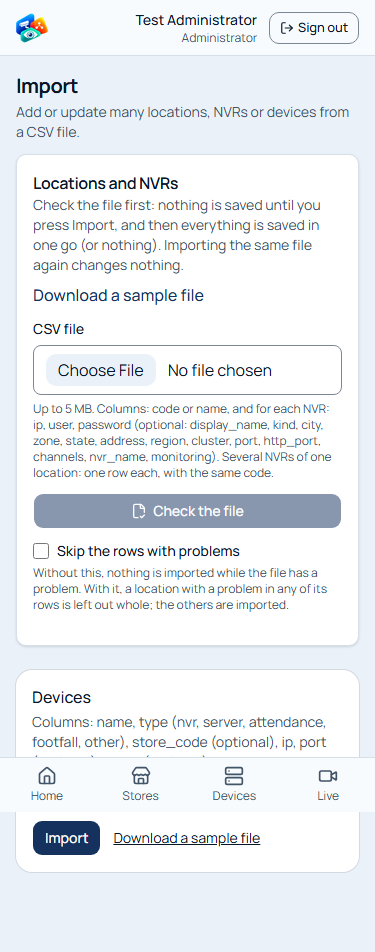
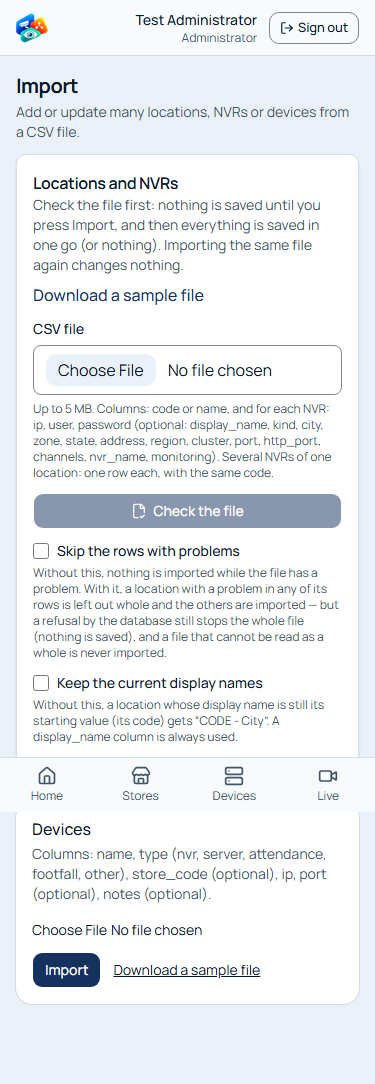
docs: P2-5c-2 review round 1 in the import guide, access and locations models, tracker, Evidence log and screenshots

diff --git a/docs/drishti/admin-guide-import.md b/docs/drishti/admin-guide-import.md
@@ -2,19 +2,25 @@
 
 Screen: **Admin → Import → Locations and NVRs** (`/admin/import`). Who: an administrator (or super administrator) holding
 `admin.inventory` for the whole organisation. Built in P2-5c-2 (`lib/import/locations-csv.ts`, `locations-plan.ts`, `locations-import.ts`,
-migration `20261021000028`). The examples below use made-up data only (TEST-NET addresses, invented passwords).
+migrations `20261021000028` and, for review round 1, `20261021000031`). The examples below use made-up data only (TEST-NET addresses,
+invented passwords).
 
 ## 1. How it works: check, then import
 
 1. **Choose the file** (CSV, up to 5 MB, up to 5,000 rows).
 2. **Check the file.** Nothing is saved. The screen shows:
-   - counts: new / changing / unchanged locations and NVRs, passwords that would be saved, new cameras, new regions and clusters;
+   - counts: new / changing / unchanged locations and NVRs, passwords given, new cameras (and cameras linked back to their channel),
+     new regions and clusters;
    - **Problems**, one line each with the **line number**, the **column** and a plain **reason** (for example: line 7, column `ip`,
-     "“192.0.2.300” is not a valid IP address.");
+     "Not a valid IP address."). A message never repeats what is in a cell (review B-I2: whatever lands in a column, a password is
+     never echoed);
    - **Worth a look**: things that are saved but may be a mistake (the same NVR address at two locations, an unknown column, a
      location already in another cluster);
-   - what happens to each location and each of its NVRs ("New", "Changes: address, password", "No change"). Passwords are never shown —
-     only **"Password: set"** or **"Password: unchanged"**;
+   - what happens to each location and each of its NVRs ("New", "Changes: address, web port", "No change"); a display name that
+     changes shows **old → new**. Passwords are never shown and never compared with the saved one: **"Password: will be set"** when the
+     row gives one (it is written only if it differs from the saved one, so importing the same file again writes nothing) and
+     **"Password: kept"** when the cell is empty (review B-I3: the preview cannot be used to guess a saved password);
+   - a new NVR says **"Monitoring: switched on"** (it is checked once the monitoring service runs) unless the file says `no`;
    - **Not in the file**: locations of the organisation that the file does not list, NVRs of listed locations that the file does not
      list, cameras on channels above the number of cameras the file gives. They are only listed.
 3. **Import.** The same plan is worked out again and must be exactly the one you checked (otherwise: "Something changed since you
@@ -26,6 +32,29 @@ migration `20261021000028`). The examples below use made-up data only (TEST-NET 
 - By default a file with any problem is **not imported at all**. Fix the rows and check again.
 - With **"Skip the rows with problems"** ticked, a location with a problem in **any** of its rows is left out **whole** (never half of
   its NVRs); the other locations are imported (still in one transaction).
+- "Skip" covers problems found while checking. **A refusal by the database** while saving (for example a code taken in the meantime)
+  still stops the whole file: nothing is saved and the line is named.
+- **A file that cannot be read as a whole** is never imported, whatever is ticked: a quote (`"`) that is never closed (nothing after it
+  can be read), or a file that is not UTF-8 text (save it as "CSV UTF-8"; otherwise a password with a character such as `é` or `£`
+  would be saved wrong).
+
+### Keep the current display names
+
+Tick **"Keep the current display names"** to keep every existing location's display name as it is. Without it, a location whose
+display name is still its starting value (its code, as the old import left it) gets **"CODE - City"** (owner ruling). A `display_name`
+column is always used.
+
+### How a row is read (review B-I1)
+
+A row is read **whole or not at all**:
+- it must have exactly as many cells as the first line ("This row has 18 cells; the first line has 17…"): a comma inside a value that
+  is not in quotes would otherwise shift every column after it;
+- a value with a comma goes in quotes (`"Shop 1, Station Rd"`), and a quote inside a quoted value is written twice (`""`); a quote in
+  the middle of an unquoted value is a problem of that row;
+- a value may not contain a line break;
+- a text value (display name, city, zone, state, address, NVR name) may not start with `=`, `+`, `-` or `@` (a spreadsheet would read
+  it as a formula). Passwords and user names may.
+Such a row is never merged with the next one and never partly imported.
 
 ### Archive, never delete — and only when you confirm
 
@@ -42,7 +71,7 @@ The first line names the columns (any order, any case; spaces and dashes count a
 
 | Column | Needed | Meaning |
 |---|---|---|
-| `code` | `code` or `name` | The location code (letters, numbers, dashes, up to 50, e.g. `JCL`). Stable: the identity of the location. |
+| `code` | `code` or `name` | The location code (letters, numbers, dashes, up to 50, e.g. `JCL`). Stable: the identity of the location. The code of an **archived** location is refused: restore that location first (no second location with the same code). |
 | `name` | (legacy) | The legacy store file's name column. Used as the code (upper case) when there is no `code` column. |
 | `display_name` | no | The name people see. A new location without one gets **"CODE - City"** (owner ruling). An existing location keeps a name a person edited; one still at its starting value ("CODE" or "CODE - City") follows the ruling. |
 | `kind` | no | `store`, `head office` / `head_office`, `DC` / `distribution centre`, `warehouse`, `other`. New locations default to store. |
@@ -50,8 +79,8 @@ The first line names the columns (any order, any case; spaces and dashes count a
 | `cluster` | no | Cluster code. A **new** location is put in it. An existing location **without** a cluster joins it (a move: the access of people with grants on that cluster or its region changes at once; audited). An existing location in **another** cluster is **not moved** (warning): move it on its page, which shows the effect on access first. A missing cluster is created with its code as its name. |
 | `region` | no, and only with `cluster` | Region code of the cluster (a location joins a region through its cluster). A missing region is created. An existing cluster in another region is not moved (warning). One cluster may not have two regions in one file. |
 | `ip` | for an NVR | The NVR's IP address. A row **without** `ip` (and without the other NVR columns) is a location **without an NVR** (a head office). |
-| `port` | no | The NVR's video (RTSP) port; default 554. |
-| `http_port` | no | The NVR's web (HTTP) port; default 80. |
+| `port` | no | The NVR's video (RTSP) port. Empty: an existing NVR keeps its saved port; a new one gets 554. |
+| `http_port` | no | The NVR's web (HTTP) port. Empty: an existing NVR keeps its saved port and is found by its address alone (when two NVRs of the location share the address, give the port); a new one gets 80. |
 | `user` | with `ip` | The NVR user name. |
 | `password` | for a new NVR | Written to the vault only (write-only). Empty keeps the saved one — **except** when the row changes the NVR's address or web port: then the password must be given again (review I-4: a saved password is only used for the address it was saved for). |
 | `channels` | no | The number of cameras of the NVR (0–999). Cameras are made for channels 1..N that never had a camera on this NVR ("Camera N"; real names come from "Find cameras"). Empty keeps the saved number. |
@@ -71,10 +100,12 @@ per location), never a second NVR made.
 ## 3. Identity rules (why importing the same file again changes nothing)
 
 - A **location** is matched by its **code** within the organisation (another organisation's locations are never seen or touched).
-- An **NVR** is matched by **location + address + web port**; for a location with one row, by the legacy rule above.
-- A **camera** is matched by **NVR + channel**. A channel that ever had a camera on that NVR (archived or moved since) gets no new one.
-- A password equal to the saved one is "unchanged" (compared inside the database; nothing is re-written). Unchanged NVRs are not even
-  saved again (no audit noise).
+- An **NVR** is matched by **location + address + web port** (an empty web port cell: by the address alone); for a location with one
+  row, by the legacy rule above.
+- A **camera** is matched by **NVR + channel**. A channel that ever had a camera on that NVR (archived or moved since) gets no new one;
+  an unlinked camera that belongs on a channel is linked back to it ("cameras linked again").
+- A password given in the file is written only when it differs from the saved one (compared inside the database during the import,
+  never in the preview). Unchanged NVRs are not saved again (no audit noise).
 
 So the second import of the same file shows every location "No change" and saves nothing.
 
@@ -104,11 +135,13 @@ SMP3,Gaya,BR,192.0.2.20,554,80,viewer,change-me-4,8
 
 `npx tsx scripts/import-estate-local.ts "<path to the CSV>"` prints what the import would do — **counts only**, never a cell value
 (problems as counts per column). Add `--apply` to save it (the same single transaction as the screen; `--skip-bad-rows` as the tick
-box). It refuses to run against anything but the local stack on port 55321, and it never contacts an NVR.
+box, `--keep-names` as "Keep the current display names"). It refuses to run against anything but the local stack on port 55321, and
+it never contacts an NVR.
 
 ## 6. After an import
 
 - Run **Find cameras for all locations** (`/admin/locations/discover`) to replace the "Camera N" placeholders with the NVRs' own
-  channel names; anything it cannot place goes to the reconciliation list (`/admin/reconciliation`).
+  channel names; anything it cannot place goes to the reconciliation list (`/admin/reconciliation`). One search runs at a time per
+  organisation; **Stop the search** asks no further NVR (the ones being asked finish; the rest are listed as skipped).
 - Planner statistics are refreshed automatically after a bulk import.
 - Rename the created regions and clusters (they carry their code as their name) on **Regions and clusters**.

diff --git a/docs/drishti/DELIVERY-STATUS.md b/docs/drishti/DELIVERY-STATUS.md
@@ -318,6 +318,7 @@ Append-only. Add one row per merged work package or per verification run; never 
 | 2026-10-22 | AL-1, AL-2, AL-3, AL-5, CC-2 (statuses unchanged, notes) | P2-5c-1 review fix round 1 (`.superpowers/sdd/drishti/p2-5c-1-review.md`: 7 Important, 13 Minor; report section "Fix round 1" in `.superpowers/sdd/drishti/p2-5c-1-report.md`), commits `380097c` (migration `20261021000027_p25c_review_fixes.sql` + rollback + types), `0ade633` (code), `211d295` (tests) on `feat/drishti-p2-access-location`. Migration applied with `npx supabase migration up --local` after a data-only backup `.superpowers/sdd/drishti/backups/pre-p2-5c-1-r1.sql` (no reset). Rollback 0027 dry-run in one rolled-back transaction: the fingerprint after the rollback differs from the one before 0027 only by the objects of P2-5c-2's migration `20261021000028` (applied by the other builder in between); 0027 re-applied equals the database. `npx supabase db diff --local --schema public`: no schema changes (28 migrations). I-7 (EXPLAIN ANALYZE, 20 groups × 10 rules on 4,637 cameras, rolled back): resolver 218.4 / 217.0 → 49.3 / 47.5 ms, `cctv_visible_group_ids()` 222.3 → 51.6 ms, `group_rule_members()` 435.6 → 53.9 ms, new `group_member_counts('cctv.live')` 67.1 ms (10,286 member rows before and after). Tests first: unit red 5 failing in 3 files; integration red `p2-5c-fixes.test.ts` (first failed to load, then 15 of 15 failing). `npm run typecheck` 0; `npm run lint` 0; unit suite 104 files, 1449 passed; `npm run test:integration` 53 files: 646 passed, 1 skipped (real ffmpeg), 2 failed + 1 file not loading, all from P2-5c-2's uncommitted work in the same tree (`access-model` VA-19: `wifi_inventory()` not yet in the allow-list; `contract-p2-5b` code guard: `nvr_ip` in `lib/import/locations-csv.ts`; `p2-5c-2-wifi-discover.test.ts`), the two files rerun alone with the same result; `npm run build` success. Screenshots: `docs/drishti/evidence/p2-5c/*` re-taken (own server on port 3290, stopped; synthetic organisation, purged), plus `location-detail-375-end.png`, `nvr-detail-375-end.png`, `asset-detail-375-end.png` (M-12: the last button ends 50-63 px above the fixed phone navigation). Not fixed here: the CSV import keeps the saved password when an NVR's address changes (P2-5c-2 is rewriting the import). Fakes and synthetic data only. | P2-5c-1 builder |
 | 2026-10-22 | AL-1, AL-2, AL-3, AL-4, AL-5, AL-6, AL-7, WF-1, WF-2, WF-3, WF-4 (statuses unchanged, notes) | P2-5c-2 (validated import, find cameras for all, Wi-Fi inventory; `.superpowers/sdd/drishti/p2-5c-2-report.md`), commits `c58d8c4` (migration `20261021000028_p25c2_import_wifi.sql` + rollback + types), `d637d96` (code, incl. review I-4 in the legacy CSV import), `5797551` (tests) on `feat/drishti-p2-access-location`. Migration applied with `npx supabase migration up --local` after a data-only backup `.superpowers/sdd/drishti/backups/pre-p2-5c-2.sql` (no reset); owner's counts equal before and after (216 locations, 216 NVRs, 4,637 cameras, 4,637 active mappings). Rollback 0028 dry-run in one rolled-back transaction: 4 functions → 0, policy and signed-in read gone, `privilege_violations()` 0; 0028 re-applied → 4. `npx supabase db diff --local --schema public`: no schema changes. `npm run typecheck` 0; `npm run lint` 0; `JOBS_PROPERTY_RUNS=200 npm run test:unit` 107 files, 1479 passed; `npm run test:integration` 53 files, 656 passed, 1 skipped (real ffmpeg); `npm run build` success. 216-location synthetic file (4,290 cameras): check 14 ms, apply 577–847 ms (one transaction), re-check 78–88 ms, re-apply (no change) 66–70 ms. Dry run of the real estate file on the owner's data (counts only, nothing written): 216 rows, 0 problems; 0 new locations / NVRs / cameras, 0 passwords to write, 216 display names would follow the "CODE - City" ruling, 7 cameras above the file's channel counts only listed. Screenshots `docs/drishti/evidence/p2-5c-2/*` (1366 × 768 and 375 px; own server on port 3295, stopped; synthetic `test-…` organisation, purged; fake NVRs on loopback only). Fakes and synthetic data only; nothing here proves behaviour against a real NVR or AP. | P2-5c-2 builder |
 | 2026-10-22 | AL-1, AL-2, AL-3 (statuses unchanged, notes) | P2-5c-1 review fix round 2 (Part A of `.superpowers/sdd/drishti/p2-5c-2-review.md`: A-N1 Important, A-N2 and A-N3 Minor, I-5 and M-1 partly fixed; report section "Fix round 2" in `.superpowers/sdd/drishti/p2-5c-1-report.md`), commits `8261bcf` (migration `20261021000030_p25c_proposal_preview.sql` + rollback + types), `1a3fb04` (code), `819c28e` (tests) on `feat/drishti-p2-access-location`. Migration applied with `npx supabase migration up --local` after a data-only backup `.superpowers/sdd/drishti/backups/pre-p2-5c-1-r2.sql` (no reset; 0029 of P2-4 was already applied, only 0030 was pending). Rollback 0030 dry-run in one rolled-back transaction: fingerprint after the rollback = before 0030 (1021 lines, 0 differences); 0030 re-applied = the database (0 differences); `privilege_violations()` 0. `npx supabase db diff --local --schema public`: no schema changes (31 migrations). Tests first: unit `tests/unit/p2-5c-fix2.test.tsx` red 7 of 7; integration `tests/integration/p2-5c-fix2.test.ts` red 5 of 6 (the all-or-nothing test passed before the change: the apply was already one transaction, so it is a guard). `npm run lint` 0 problems; `JOBS_PROPERTY_RUNS=200 npm run test:unit` 109 files, 1507 passed; `npm run test:integration` 57 files, 719 passed, 1 skipped (real ffmpeg), 153 s; `npm run typecheck`: 0 errors in this package, 5 to 8 (the number changed during the round) in other packages' uncommitted files (P2-4: `tests/integration/gateway.test.ts`, `playback-streams.test.ts`, `vod-revocation.test.ts`; P2-5c-2 in-flight test files earlier); `npm run build`: compiled, then failed at its type check on those same P2-4 test files only. Not verified in a browser: the merge question's behaviour is tested as a reducer plus the server's refusal of any other pair (no DOM test library in the project). Fakes and synthetic data only. | P2-5c-1 builder |
+| 2026-10-22 | AL-1, AL-2, AL-3, AL-7, WF-1, WF-3, WF-4 (statuses unchanged, notes) | P2-5c-2 review fix round 1 (Part B of `.superpowers/sdd/drishti/p2-5c-2-review.md`: B-I1..B-I3 Important, B-M1..B-M14 Minor; report section "Fix round 1" in `.superpowers/sdd/drishti/p2-5c-2-report.md`), commits `400cd32` (migration `20261021000031_p25c2_review_fixes.sql` + rollback + types hunk), `38323d3` (code), `eb33a50` (tests) on `feat/drishti-p2-access-location`. B-I1: strict RFC 4180 reader — a row with another cell count than the first line, a stray quote or a line break is a row problem and never partly read; an unclosed quote or a non-UTF-8 file blocks the file. B-I2: no message quotes a cell value. B-I3: the saved-password comparison (`recorder_credentials_match`) is dropped; the preview says "will be set" / "kept" from the file alone; `inventory_import_apply` writes (and audits) a given password only when it differs. Migration applied with `npx supabase migration up --local` after a data-only backup `.superpowers/sdd/drishti/backups/pre-p2-5c-2-r1.sql` (no reset; checked that 0029 and 0030 were applied first). Rollback 0031 dry-run in one rolled-back transaction: `recorder_credentials_match` back and `inventory_import_apply` back to the 0028 body, `privilege_violations()` 0; 0031 re-applied gives the same function body (md5) as now. `npx supabase db diff --local --schema public`: no schema changes. Tests first, seen red: unit `locations-csv` 13 failing, `import-plan` 16, `p2-5c-2-screens` 3, `p2-5c-2-actions` 1; integration `p2-5c-2-import` 8, `p2-5c-2-wifi-discover` 2, `access-model` VA-19 1. `npm run lint` 0; `JOBS_PROPERTY_RUNS=200 npm run test:unit` 109 files, 1507 passed; `npm run test:integration` 58 files, 728 passed, 1 skipped (real ffmpeg), 243 s; `npm run typecheck`: 0 errors in this package, 5 in other packages' uncommitted P2-4 test files (`gateway.test.ts`, `playback-streams.test.ts`, `vod-revocation.test.ts`); `npm run build`: success. Timings (synthetic 216 rows): new organisation check 17 ms / apply 721 ms; legacy-seeded (the estate path) check 63 ms / apply 130 ms. Screenshots `docs/drishti/evidence/p2-5c-2/*` re-taken (own server 3295, stopped; synthetic `test-…` organisation, purged; fake NVRs on loopback only). The real CSV was not read in this round. Fakes and synthetic data only. | P2-5c-2 builder |
 
 ## Update rules
 

diff --git a/docs/drishti/locations-model.md b/docs/drishti/locations-model.md
@@ -151,3 +151,4 @@ These changes supersede the points above where the two differ.
 - **Wi-Fi inventory** (`/locations/wifi`, nav "Wi-Fi inventory"; `lib/wifi/inventory.ts`): holders of `wifi.inventory.view`, through their own client — `wifi_inventory()` lists the access points, routers and switches (type, or role) they hold the capability for, with the reachability monitoring last saw (never `credential_ref`); `device_capabilities` is now readable by holders of `wifi.inventory.view` (policy `device_capabilities_select`). Every operation of the matrix is shown per device for its vendor, model, management mode and firmware range: "Documented — not tested here", "Not supported" or "Unverified" (anything not documented); nothing is lab-validated. The Wi-Fi profile is a placeholder ("Not assigned") until the profile module (WF-6).
 - **Rollback**: `supabase/rollback/20261021000028_p25c2_import_wifi_rollback.sql` (before the 0027 rollback) drops the four functions and the policy (the matrix becomes server-only again). Data written by imports stays (ordinary inventory data).
 - **Local dry run of the real estate file** (counts only, nothing written; `npx tsx scripts/import-estate-local.ts "<path>"`, 2026-10-22): 216 rows, 0 problems, 0 warnings; locations 0 new, 216 changing (display name only: the earlier import left the bare code as the display name; the ruling's "CODE - City" would be applied), 0 unchanged; NVRs 0 new, 0 changing, 216 unchanged; passwords to save 0 (all equal to the saved ones); new cameras 0; not in the file: 0 locations, 0 NVRs, 7 cameras (on channels above the file's camera count; only listed). No duplicate would be made.
+- **Review round 1** (`20261021000031`, `.superpowers/sdd/drishti/p2-5c-2-review.md` Part B): the strict CSV reader (a row is read whole or not at all: RFC 4180 quotes, the first line's cell count, no line breaks; an unclosed quote or a non-UTF-8 file blocks the whole file); problem messages never quote a cell; no saved-password comparison before the apply (`recorder_credentials_match` dropped; the preview says "will be set" / "kept"; the database writes a given password only when it differs); empty port cells keep the saved ports (an NVR found by its address alone); an archived location's code is refused; "Keep the current display names" and "old → new" in the preview; cameras that go back on their channel are counted as "linked again"; text values starting with `=`, `+`, `-`, `@` refused; "find cameras for all" registers a run before its first `await` (one run per organisation), can be stopped between NVRs, stops polling after an error, and reads more than 1,000 NVRs page by page. Rollback: `supabase/rollback/20261021000031_p25c2_review_fixes_rollback.sql` (puts back the 0028 bodies; run before the 0030 / 0028 rollbacks).

diff --git a/docs/drishti/access-model.md b/docs/drishti/access-model.md
@@ -37,6 +37,7 @@ Status: database layer built in P2-1 (migrations `20261021000008`…`20261021000
 | `asset_endpoints` | an ordinary asset's: the IT view of the asset; a recorder's: the recorder-level IT view (`it_view_endpoint_asset_ids()`) |
 | `assets` (with address; no `credential_ref`) | `it.inventory.view` or `it.monitoring.view` covering the asset (`it_view_asset_ids()`) |
 | `network_definitions`, `asset_dependencies` | IT view of the location / of both assets |
+| Saved NVR passwords and the location import (P2-5c-2 review B-I3) | Nobody signed in reads them, and nothing tells an administrator whether a password they type equals a saved one: the import preview says "will be set" / "kept" from the file alone (the comparison function `recorder_credentials_match` was dropped by `20261021000031`); `inventory_import_apply` (server only) compares inside the transaction and writes — and audits, without the value — only a password that differs |
 | `device_capabilities` (documentation matrix, no place in it) | P2-5c-2: any holder of `wifi.inventory.view` at any scope (`has_capability`); nobody signed in writes it (was server-only in P2-5a) |
 | `wifi_inventory()` (access points, routers, switches with reachability; never `credential_ref`) | P2-5c-2: the assets the caller holds `wifi.inventory.view` for (`capability_asset_ids('wifi.inventory.view')`, organisation / region / cluster / location / asset scope) |
 | `check_state`, `outages` | camera: as cameras; device: as assets; recorder: IT view of the recorder (organisation, region, cluster, location or recorder grant). P2-5b: the seam's `nvr` kind is gone (contract migration `20261021000024`) |
